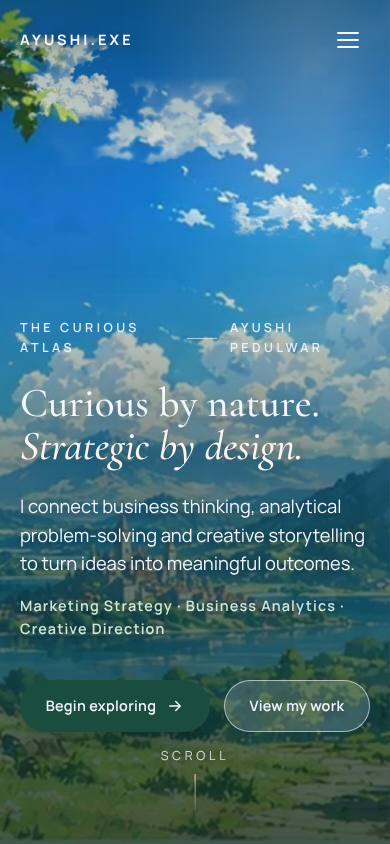
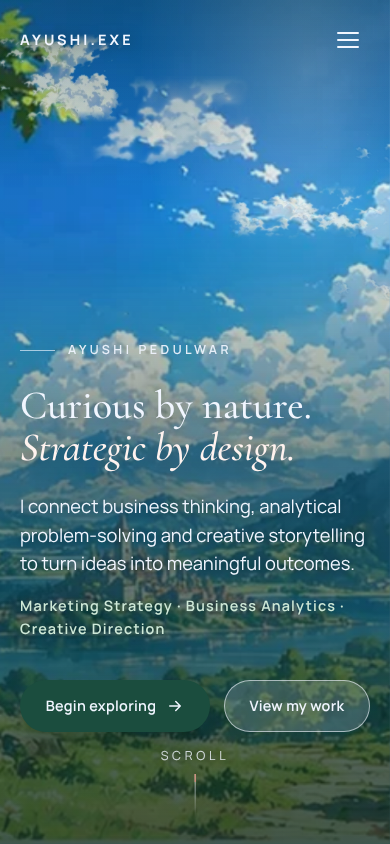
Stage 2: use LinkedIn tagline and show only the name above the headline
Claude-Session: https://claude.ai/code/session_01RuimECQjLLPPcxrergvsow

diff --git a/src/content/profile.js b/src/content/profile.js
@@ -7,7 +7,7 @@ export const profile = {
   wordmark: 'AYUSHI.EXE',
   name: 'Ayushi Pedulwar',
   headline: 'Curious by nature. Strategic by design.',
-  tagline: 'A world of ideas, waiting to be discovered.',
+  tagline: 'the chaos is actually strategic',
   intro:
     'I connect business thinking, analytical problem-solving and creative storytelling to turn ideas into meaningful outcomes.',
   credentials:

diff --git a/src/scenes/Hero.jsx b/src/scenes/Hero.jsx
@@ -27,7 +27,6 @@ export function Hero() {
 
       <div className="hero__content">
         <p className="hero__eyebrow">
-          <span>{profile.siteName}</span>
           <span className="hero__eyebrow-rule" aria-hidden="true" />
           <span>{profile.name}</span>
         </p>
